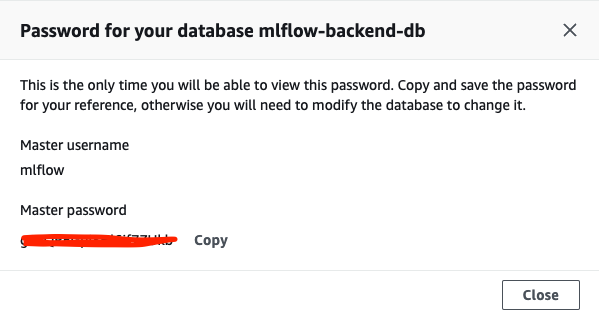
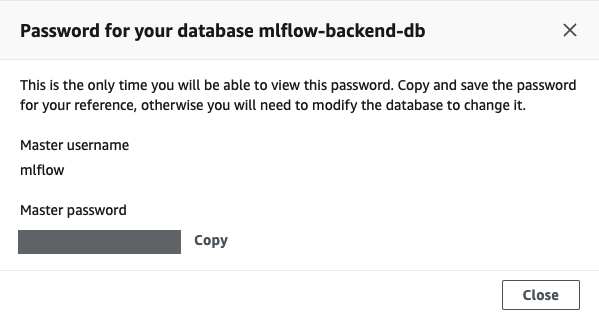
Redact database password screenshot

Changed region(s): [[0.0301, 0.7188, 0.3005, 0.8125]]

diff --git a/02-experiment-tracking/mlflow_on_aws.md b/02-experiment-tracking/mlflow_on_aws.md
@@ -51,6 +51,8 @@ After clicking on "launch database" you will be able to check the newly generate
 
 <img src="images/db_password.png" />
 
+The password value is intentionally redacted in this documentation image. In the AWS console, copy the generated password immediately and keep it private.
+
 You can use the default values for all the other configurations.
 
 Take note of the following information:
